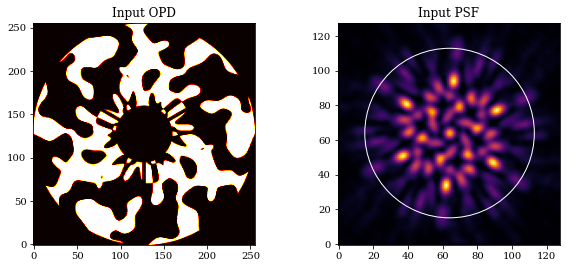
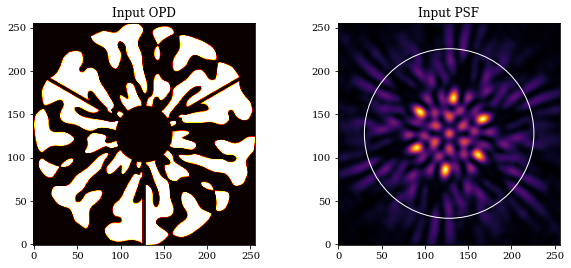
Updating mask design images

diff --git a/docs/tutorials/examples/designing_a_mask.md b/docs/tutorials/examples/designing_a_mask.md
@@ -183,7 +183,7 @@ rmax = 8*sampling_rate # 8 lam/D
 ```python
 aperture = tel.aperture.transmission
 mask = tel.pupil.get_binary_phase()
-outer = plt.Circle((64, 64), rmax, fill=False, color='w')
+outer = plt.Circle((128, 128), rmax, fill=False, color='w')
 
 plt.figure(figsize=(10, 4))
 plt.subplot(1, 2, 1)
